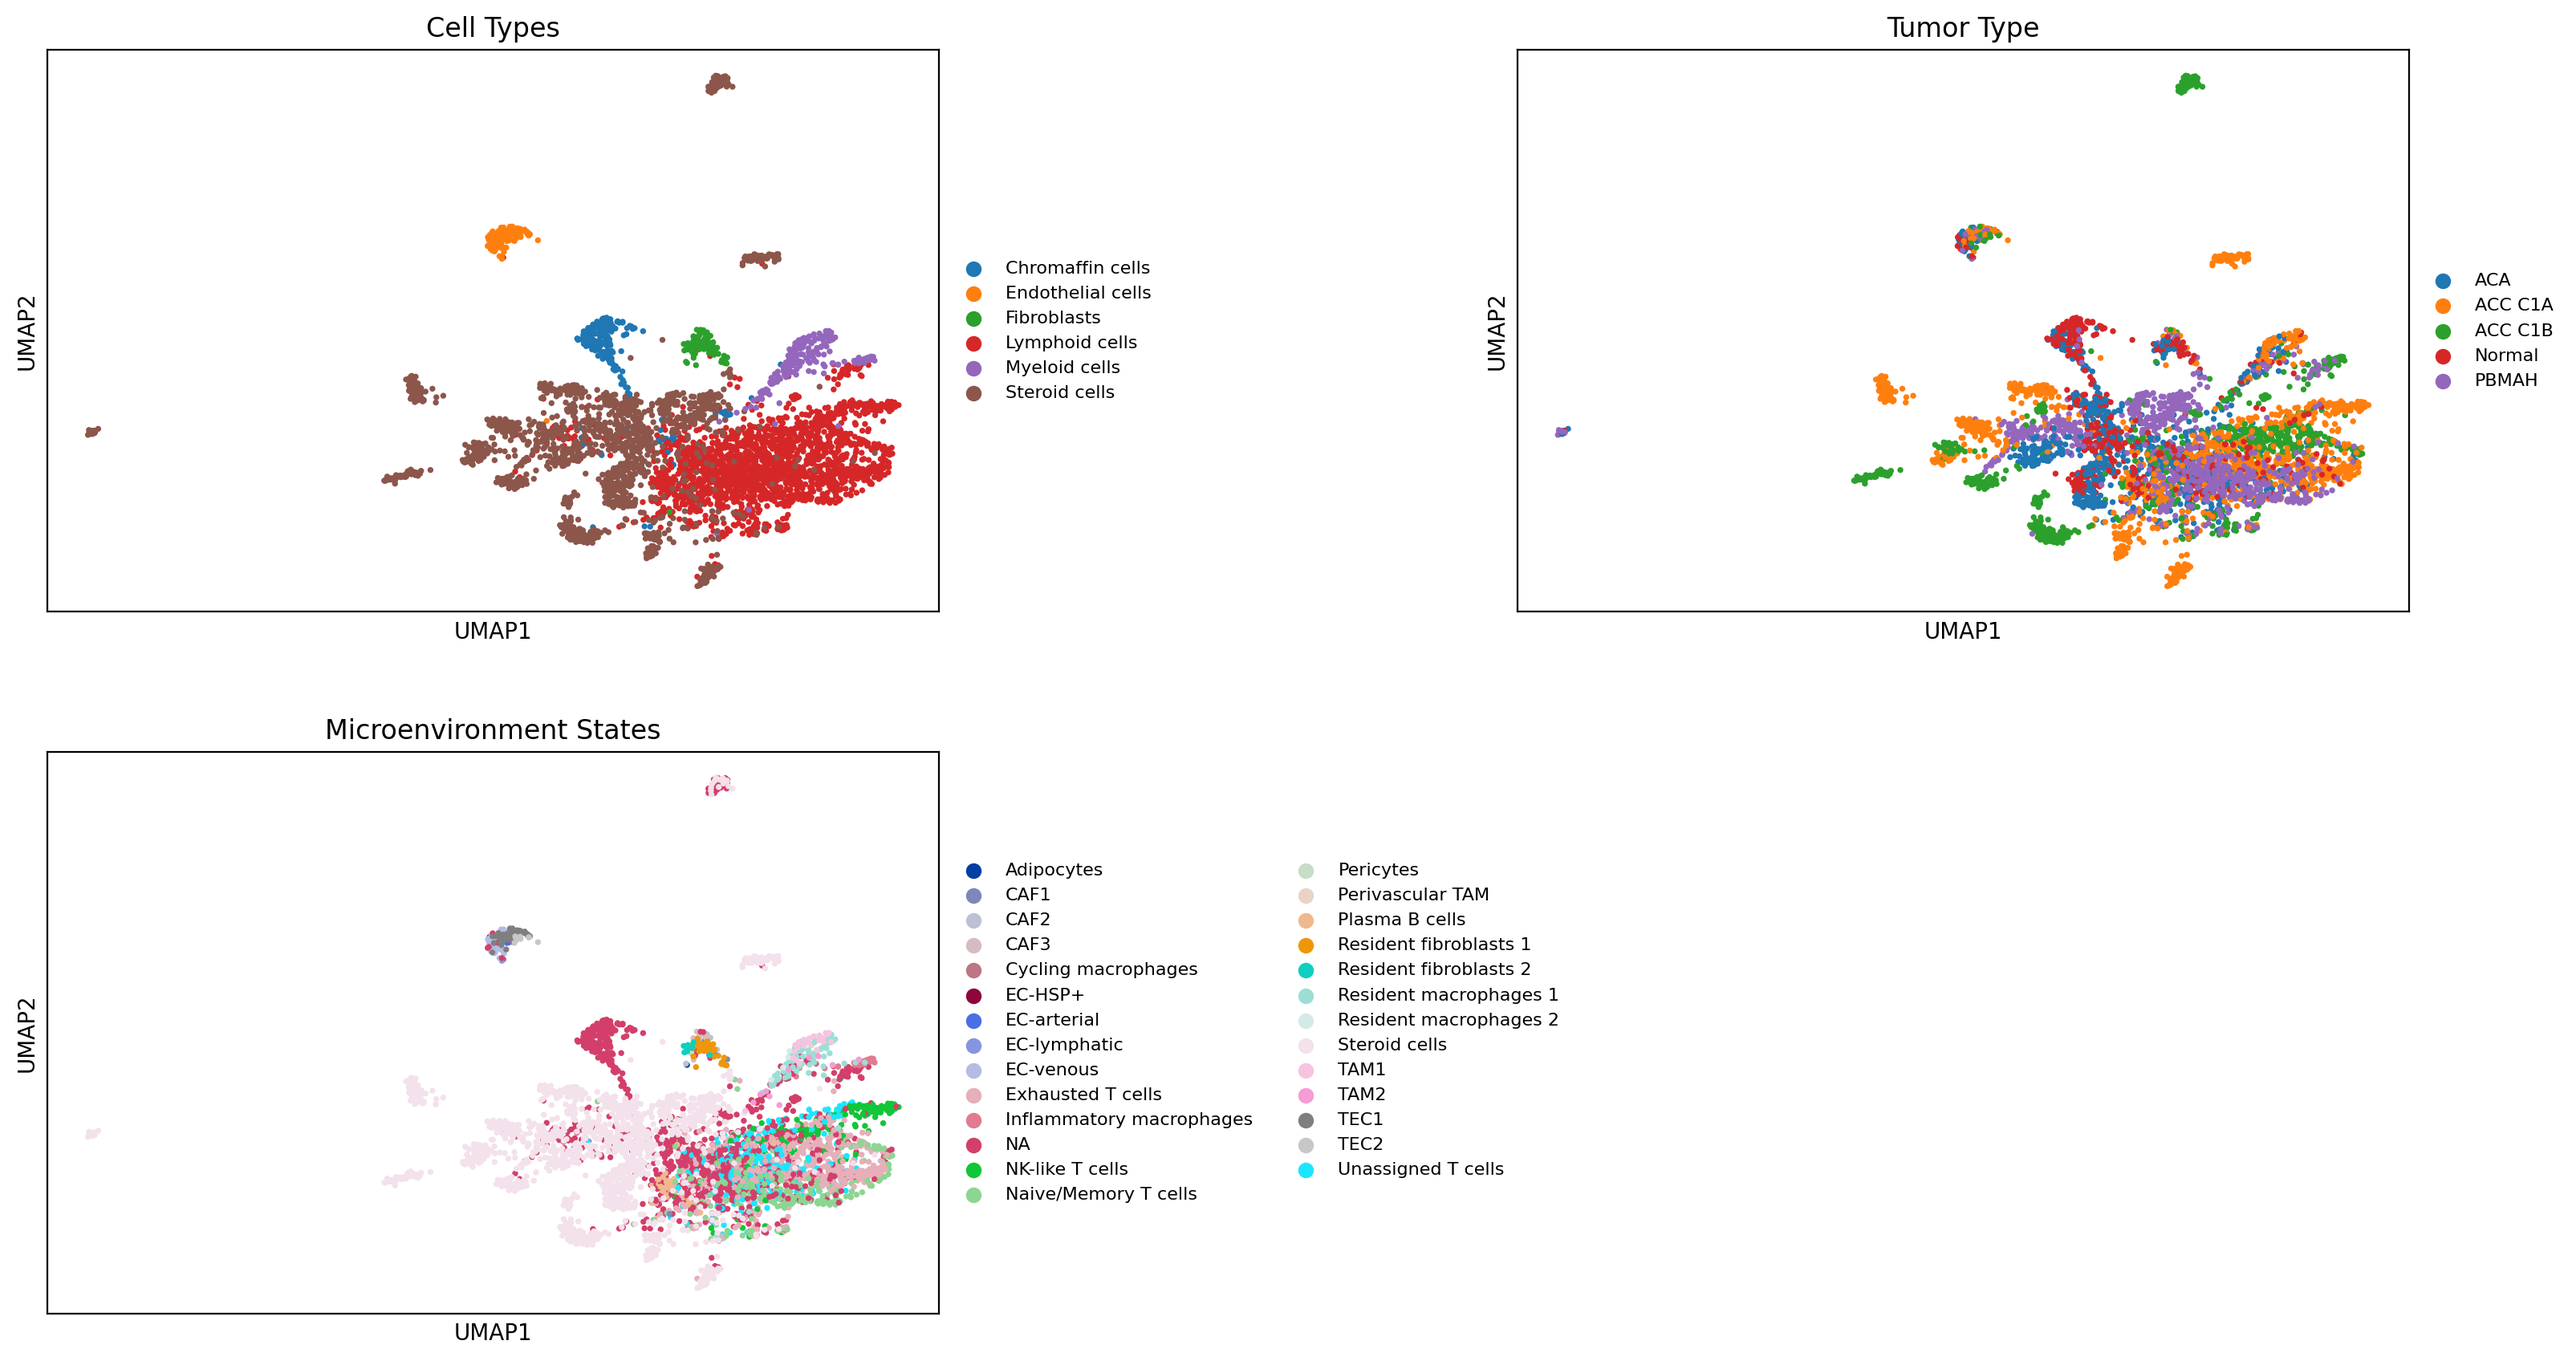
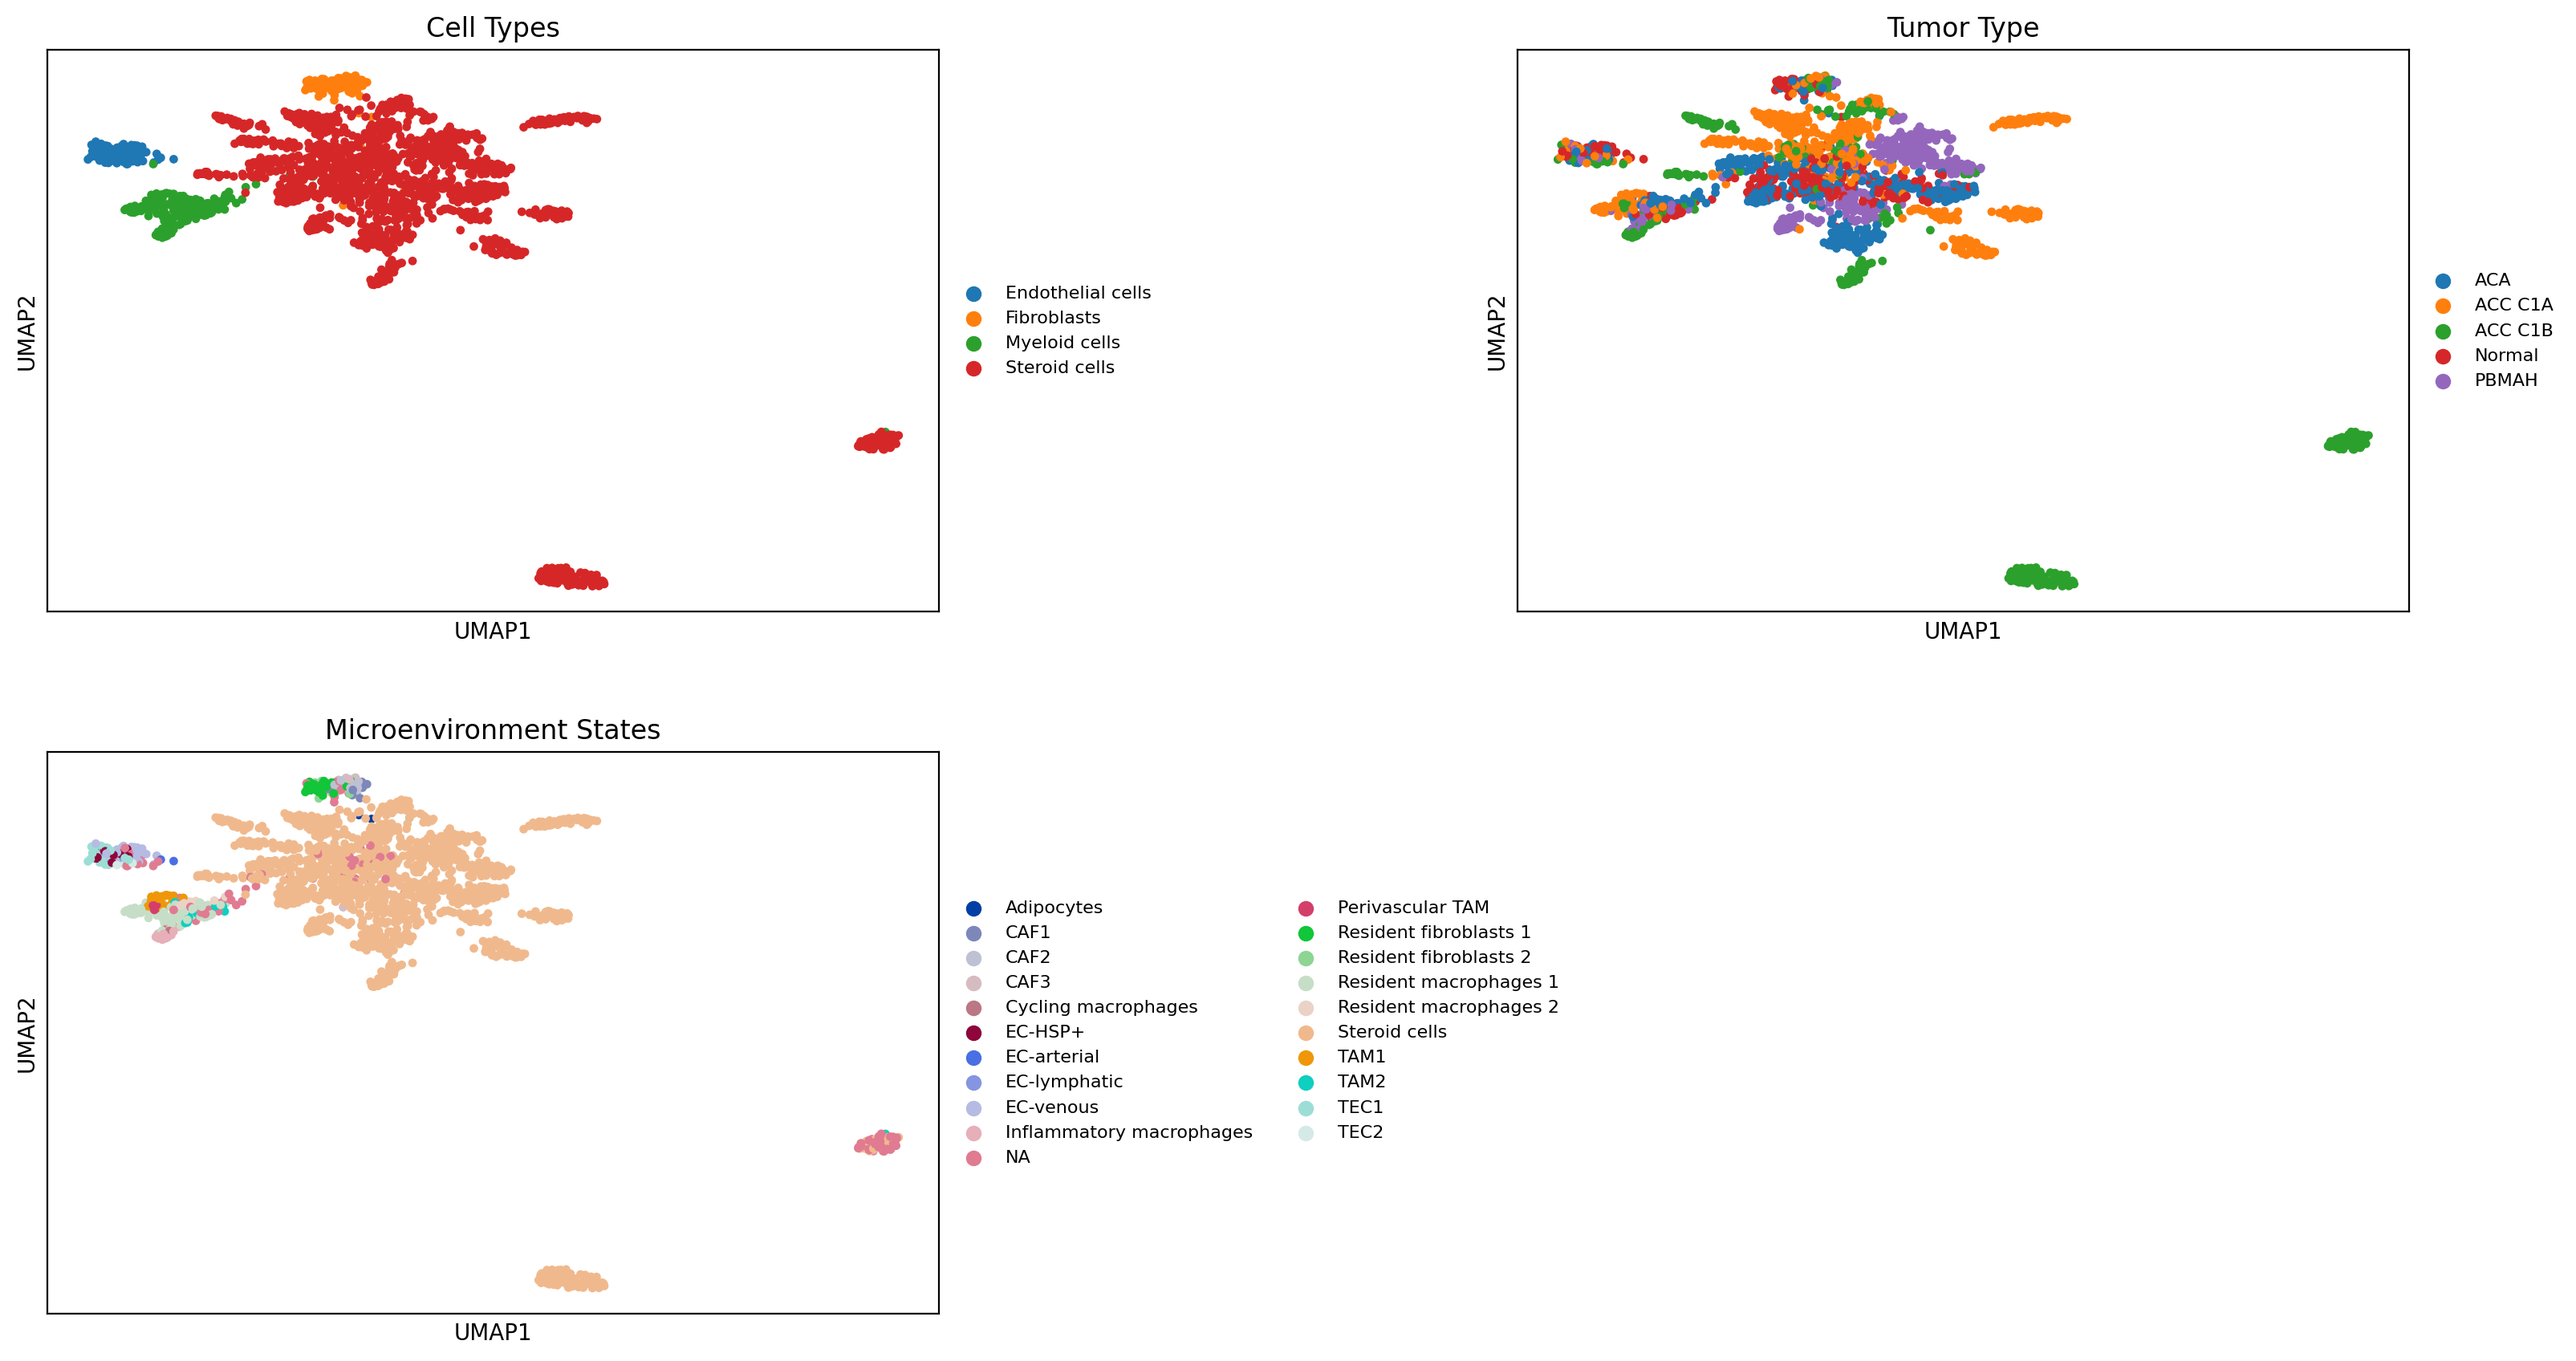
README et convertion vers .h5ad

diff --git a/cell_types.py b/cell_types.py
@@ -31,11 +31,11 @@ from scripts.utils import check_data, preprocess_data, save_data, plot_UMAP, upd
 from scripts.utils import PROJECT_PATH, DATA_PATH, RESULTS_PATH, CELLTYPE_MAP, HISTOTYPE_MAP, ANNDATA_MAP, SUBSETS_CONFIG
 from scripts.gene_subsampling import neyman_subsample
 from scripts.clustering import cluster_data, find_best_resolution, find_best_resolution_linspace, best_leiden_run
-from studies_opt import (study_sparsity, study_sparsity_with_trajectories, 
+from scripts.studies_opt import (study_sparsity, study_sparsity_with_trajectories, 
                          study_complete_sparsity, study_group_sparsity, 
                          study_group_sparsity_exclude, study_group_sparsity_onevsall)
 
-SAVE_DIR = "plots/cell_types"
+SAVE_DIR = "plots_test/cell_types"
 os.makedirs(SAVE_DIR, exist_ok=True)
 
 print("="*50)
@@ -56,7 +56,7 @@ if cells is None:
 # ==========================================
 # 2. UNDERSAMPLING
 # ==========================================
-n_cells = 2e3
+n_cells = 2e2
 print(f"[2/3] Sampling {int(n_cells)} cellules...")
 cells = cells[cells.obs["celltype_label"].isin(["Steroid cells", "Fibroblasts", "Endothelial cells", "Myeloid cells"])]
 cells = neyman_subsample(data=cells, target_labels=["Steroid cells", "Fibroblasts", "Endothelial cells", "Myeloid cells"], label_col="celltype_label", stratify_by=["celltype_label"], n_target_total=int(n_cells))

diff --git a/scripts/utils.py b/scripts/utils.py
@@ -19,7 +19,7 @@ MAX_RNG_RANGE = 10000
 # Chemins d'accès
 
 ### Chemin principal
-PROJECT_PATH = r"C:\Users\mayeu\Desktop\TRAVAIL\MVA\Cours\Projet médecin" # A CHANGER, METTRE LE CHEMIN ACTUEL
+PROJECT_PATH = ... # A CHANGER, METTRE LE CHEMIN ACTUEL DU PROJET. Exemple: r"C:\Users\mayeu\Desktop\TRAVAIL\MVA\Cours\Projet médecin"
 
 ### Pour l'exportation
 RESULTS_PATH = PROJECT_PATH + r"\results"

diff --git a/README.md b/README.md
@@ -115,7 +115,7 @@ N = 16  # Nombre de CPUs à utiliser
 |-------------------|--------------------|---------------------|
 | Stéroïdes         | 133 501            | —                   |
 | **Myéloïdes**     | **16 698**         | Macrophages, TAM    |
-| **Endothéliales** | **8 540**          | —                   |
+| **Endothéliales** | **8 540**          | EC Venous, TEC2                   |
 | **Fibroblastes**  | **7 942**          | CAF, Résidents      |
 | Lymphoïdes        | 2 054              | —                   |
 | Chromaffines      | 192                | —                   |
@@ -126,7 +126,7 @@ Les types en gras sont les populations d'intérêt principal.
 
 ## Résultats principaux
 
-Seuils critiques d'homogénéité ($h = 0.4$) en niveau de sparsité et nombre moyen de gènes détectés par cellule, estimés sur 25 runs :
+*Seuils critiques d'homogénéité sur le partitionnement global d'un type donné ($h = 0.4$) en niveau de sparsité et nombre moyen de gènes détectés par cellule, estimés sur 25 runs.*
 
 | Type cellulaire   | $k=15$       | $k=25$       | $k=50$       | $k=100$      | $k=200$       |
 |-------------------|--------------|--------------|--------------|--------------|---------------|
@@ -134,8 +134,54 @@ Seuils critiques d'homogénéité ($h = 0.4$) en niveau de sparsité et nombre m
 | Fibroblastes      | 0.13 / 327   | 0.25 / 553   | 0.19 / 446   | 0.24 / 536   | 0.77 / 1160   |
 | Myéloïdes         | 0.19 / 446   | 0.25 / 553   | 0.20 / 465   | 0.19 / 446   | 0.22 / 501    |
 
+*Seuils critiques sur le partitionnement des sous-types pour une type donné (sparsité / nb gènes), h=0.4, k=20, 25 runs.*
+
+| Type & Sous-Type | Seuil critique (h=0.4) |
+|---|---|
+| **Fibroblastes** | |
+| &nbsp;&nbsp;&nbsp;&nbsp;CAF1 | 0.80 / 1311 |
+| &nbsp;&nbsp;&nbsp;&nbsp;CAF2 | 1.00 / 1484 |
+| &nbsp;&nbsp;&nbsp;&nbsp;CAF3 | 0.05 / 147 |
+| &nbsp;&nbsp;&nbsp;&nbsp;Resident fibroblasts 1 | 0.27 / 626 |
+| &nbsp;&nbsp;&nbsp;&nbsp;Resident fibroblasts 2 | 0.08 / 226 |
+| **Myéloïdes** | |
+| &nbsp;&nbsp;&nbsp;&nbsp;Inflammatory macrophages | 0.25 / 574 |
+| &nbsp;&nbsp;&nbsp;&nbsp;Residents macrophages 1 | 0.45 / 877 |
+| &nbsp;&nbsp;&nbsp;&nbsp;Residents macrophages 2 | 1.00 / 1389 |
+| &nbsp;&nbsp;&nbsp;&nbsp;TAM1 | 0.32 / 691 |
+| &nbsp;&nbsp;&nbsp;&nbsp;TAM2 | 1.00 / 1389 |
+
+*Seuils critiques par type sur le partitionnement des 4 grands types cellulaires (uniquement en sparsité), h=0.4, 25 runs.
+
+| Type cellulaire | k=20 |
+|---|---|
+| Stéroïdes | >> 0.25 |
+| Endothéliales | >> 0.25 ~ 0 |
+| Fibroblastes | 0.55 |
+| Myéloïdes | >> 0.25 ~ 0 |
+
 ---
 
 ## Données
 
 Les données ne sont pas incluses dans ce dépôt. Le jeu de données est un fichier AnnData (`.h5ad`) à placer selon le chemin défini dans `scripts/utils.py` (`DATA_PATH`).
+
+## Préparation des données
+
+Le jeu de données brut est au format `.RDS` (objet Seurat), **non lisible nativement par la bibliothèque Python `anndata`**. La conversion en `.h5ad` est donc obligatoire avant toute utilisation. Le script `convertToH5AD.R` effectue cette conversion :
+
+```r
+Rscript convertToH5AD.R
+```
+
+Modifier en tête de script :
+
+- `path` : le dossier contenant le fichier `.RDS`
+- `file_name` : le nom du fichier `.RDS`
+
+Le script requiert les packages R `Seurat`, `SeuratObject` et `SeuratDisk`. Il produit directement le fichier `single_cells.h5ad`.
+
+Ensuite :
+
+1. Dans `scripts/utils.py`, renseigner `PROJECT_PATH` avec le chemin racine du projet.
+2. Placer `single_cells.h5ad` dans le dossier `data/`.
